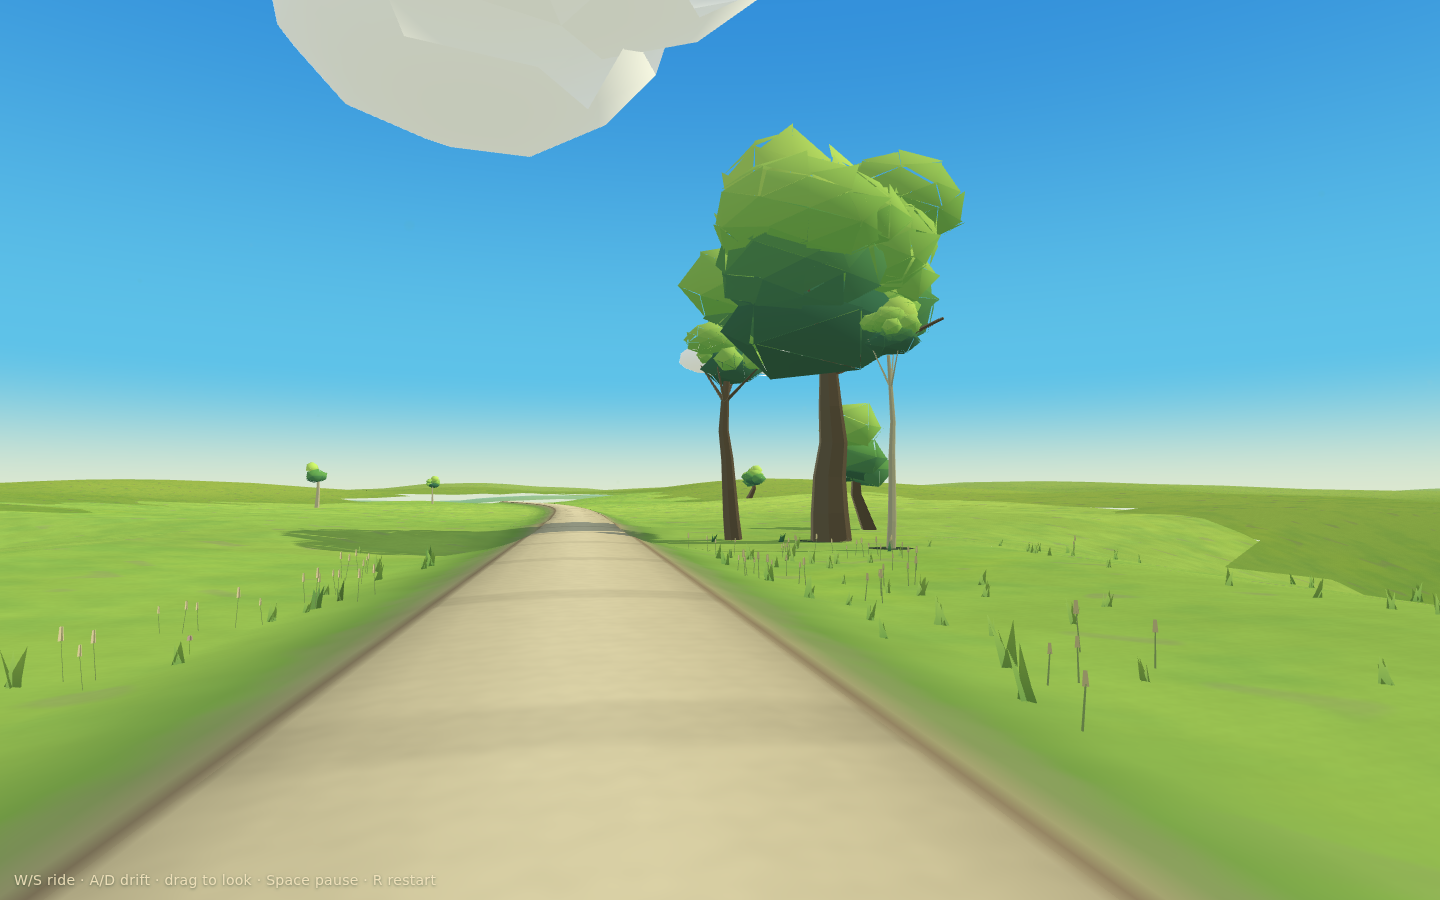
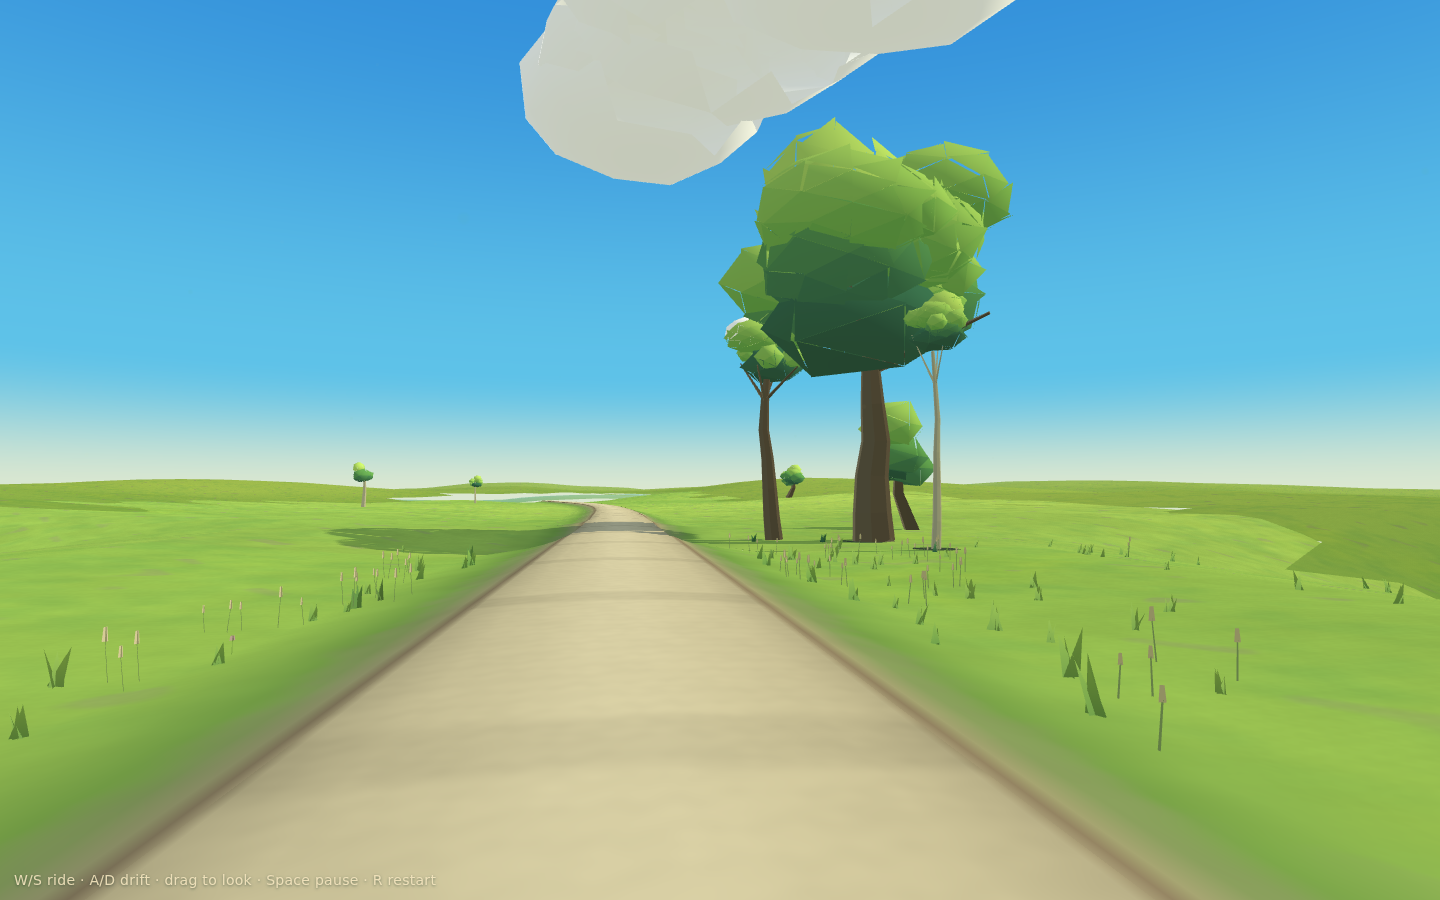
Summerglass Island 01: final pass — honest budget, raised Sisters
The budget is now a deterministic bound, not a sample: budgetSweep() poses
the rider's camera analytically at fixed stations every 24 m along the whole
route, settles residency synchronously at each, and reports the maximum.
Repeat-identical by construction. Swept maxima: 109,732 triangles / 26 calls
at standard, 114,408 / 27 at high, against 120,000 / 45. The boundary-row
tier decision was re-made against this number and against three alternate
seeds: articulating the row reads 118.3k on the default seed but 120.5k on
COMBE-777 at high — over the ceiling on reachable seeds — so it stays tier 1,
on evidence rather than on the earlier bad sample.

The Sisters finally earn the skyline, and the diagnosis was humbling: their
knoll was a gaussian ADDED to unconstrained relief noise, and on this seed
the noise ran ten metres below the road — the summit stood eight metres
under the lane, and three forty-metre elders vanished into their own
hillside. The knoll now DECLARES its summit against the road's own height,
the combe rises on its flank instead of carving through it, the group is
laid across two forward sight-lines a rider actually holds (the
water-aperture approach and the early climb), the second pond-wall mass is
moved out of their bearing, and the ride's sight test was what had hidden
all of this — it probed clear air 24 m above a sunken knoll. The reveal is
now a single composed moment: water below, three elders above.
[…]

diff --git a/island-01.html b/island-01.html
@@ -457,13 +457,15 @@ H.terrain.feed(POND.g,POND.cx,POND.cz,POND.rx,POND.rz,POND.y);
 const KNOLL=(()=>{
   const g=POND.g+FORM.r(140,190);
   const fr=getFrame(LFRAME,g);
-  const off=(FORM.r(118,148))*S_LAND;
+  const off=(FORM.r(150,172))*S_LAND;
   return { x:fr.x+fr.lx*off, z:fr.z+fr.lz*off, g,
-           r:FORM.r(85,110), h:FORM.r(17,23) };
+           r:FORM.r(85,110), h:FORM.r(20,26) };
 })();
 const COMBE=(()=>{
   const pts=[];
-  pts.push([KNOLL.x,KNOLL.z]);
+  // the spring rises on the knoll's flank, forty metres downslope — a combe
+  // that begins at the summit would carve the knoll out from under its own trees
+  pts.push([lerp(KNOLL.x,POND.cx,0.26),lerp(KNOLL.z,POND.cz,0.26)]);
   pts.push([lerp(KNOLL.x,POND.cx,0.5)+FORM.r(-14,14),lerp(KNOLL.z,POND.cz,0.5)+FORM.r(-14,14)]);
   pts.push([POND.cx,POND.cz]);
   // downstream: away from the road, off the island's shoulder
@@ -540,8 +542,9 @@ function reliefL(x,z,d){
   r+=(fbmL(x/188+31.1,z/188+17.4)-0.5)*46;
   r+=(fbmL(x/62+7.7,z/62+41.3)-0.5)*12;
   r*=g;
-  { const dx=x-KNOLL.x, dz=z-KNOLL.z;
-    r+=KNOLL.h*Math.exp(-(dx*dx+dz*dz)/(KNOLL.r*KNOLL.r))*smooth(30,110,d); }
+  // (the knoll is imposed in groundL, not added here: a bump summed onto
+  // unconstrained noise stood eight metres BELOW the road on this seed, and a
+  // sunken knoll is how three forty-metre elders vanish from their own skyline)
   for(const b of THRESH_BANK){
     const dx=x-b.x, dz=z-b.z;
     r+=b.h*Math.exp(-(dx*dx+dz*dz)/(b.r*b.r))*smooth(EXCL+4,EXCL+16,d);
@@ -616,6 +619,12 @@ function groundL(x,z){
         y=lerp(y,Math.max(y,rim),smooth(RH+9,RH+26,ri.d)*(1-smooth(2.3,2.7,pr)));
       }
     } }
+  // the Sisters' knoll: its summit is DECLARED against the road's own height,
+  // so the crowns break the skyline from the lane at every station. The noise
+  // around it stays low, which gives the rise its prominence for free.
+  { const kdx=x-KNOLL.x, kdz=z-KNOLL.z, kd2=kdx*kdx+kdz*kdz;
+    const kw=Math.exp(-kd2/(KNOLL.r*KNOLL.r));
+    if(kw>0.02) y=lerp(y,ri.y+KNOLL.h,smooth(0.06,0.75,kw)); }
   y=shelfY(x,z,y);
   // within the shoulder the ground is never permitted above the lane's edge,
   // and the metre beside the stone always carries it
@@ -735,11 +744,22 @@ const BOUNDARY={ s0:movStart('headland')+FORM.r(10,50), s1:movEnd('headland')+FO
   }
 }
 
-// ---- wind-sisters: three elders on the knoll at the head of the combe ----
+// ---- wind-sisters: three elders on the knoll at the head of the combe.
+// A landmark has to be a shape you can name, so the line is laid ACROSS the
+// rider's own sight-lines — one designed viewpoint in the rows, one on the
+// headland — so the group reads side-on as one silhouette from both, never
+// end-on as three trunks. Tall, taller, short: a relationship, not a row.
 const SISTERS=(()=>{
+  // both sight-lines are FORWARD views a rider actually holds: one from the
+  // water-aperture approach (the composite: pond below, elders above), one
+  // from the early climb where the knoll stands off the shoulder
+  const vA=getFrame(LFRAME,clamp(POND.apertureG-45,0,LFRAME.len-1));
+  const vB=getFrame(LFRAME,clamp(POND.g+185,0,LFRAME.len-1));
+  const a1=Math.atan2(vA.x-KNOLL.x,vA.z-KNOLL.z), a2=Math.atan2(vB.x-KNOLL.x,vB.z-KNOLL.z);
+  const vm=Math.atan2(Math.sin(a1)+Math.sin(a2),Math.cos(a1)+Math.cos(a2));
+  const across=vm+Math.PI*0.5;
   const towardPond=Math.atan2(POND.cx-KNOLL.x,POND.cz-KNOLL.z);
-  const across=towardPond+Math.PI*0.5;
-  const SCL=[2.15,2.85,1.65], OFF=[-26,2,23];
+  const SCL=[2.7,3.4,2.0], OFF=[-33,1,29];
   const out=[];
   for(let i=0;i<3;i++){
     const st=subStream('sister',i);
@@ -809,7 +829,7 @@ const GROVES=[];
     const beyond=Math.abs((POND.cx-fr.x)*fr.lx+(POND.cz-fr.z)*fr.lz)+POND.rx+st.r(10,16);
     GROVES.push({ id:GROVES.length, s:POND.g+st.r(-24,10), side:S_LAND, off:beyond, rx:st.r(34,44), rz:st.r(38,52),
       rot:st.r(0,TAU), role:'wall', dens:1.0, mix:['beech','oak','beech','leaning'], enc:0.85, hero:false, pondWall:true });
-    GROVES.push({ id:GROVES.length, s:POND.g+st.r(46,90), side:S_LAND, off:beyond*st.r(0.8,0.95), rx:st.r(22,30), rz:st.r(26,36),
+    GROVES.push({ id:GROVES.length, s:POND.g+st.r(78,120), side:S_LAND, off:beyond*st.r(1.0,1.15), rx:st.r(22,30), rz:st.r(26,36),
       rot:st.r(0,TAU), role:'wall', dens:1.0, mix:['beech','oak','leaning'], enc:0.8, hero:false, pondWall:true });
   }
   for(const gr of GROVES) H.eco.feed(gr.s,gr.off,gr.side,gr.role);
@@ -841,7 +861,7 @@ const GROVES=[];
       if(ri.s>PANELS[0].s0-20&&ri.s<PANELS[0].s1+20&&ri.u*(-S_LAND)>10&&ri.u*(-S_LAND)<PANELS[0].u1+14) continue;
       // the mown panel was cut this season: nothing grows tall in it
       { const pa=panelAt(x,z,ri); if(pa&&pa.P.mown&&pa.w>0.3) continue; }
-      if(Math.hypot(x-KNOLL.x,z-KNOLL.z)<52) continue;
+      if(Math.hypot(x-KNOLL.x,z-KNOLL.z)<84) continue;   // the Sisters share their skyline with nobody
       if(inSight(x,z,ri.s,ri.d,Math.sign(ri.u)||1)) continue;
       if(treeNear(x,z,2.0*scl+st.r(0.4,2.4))) continue;
       treeAdd({ x,z,fam,scl,lean:st.r(-1,1),leanDir:st.r(0,TAU),
@@ -2192,7 +2212,11 @@ for(let k=0;k<XFORMS.length;k++){
     if(t.formation==='dappled-gate'){ tier=2; FORMATION_STAT.gates++; }
     else if(t.formation==='wind-sisters'){ tier=1; FORMATION_STAT.sisters++; }
     else if(t.fam==='orchard'){ tier=(t.d<30)?1:0; round=(t.d<30); FORMATION_STAT.orchard++; }
-    else { tier=1; FORMATION_STAT.boundary++; }   // ~20 m out: articulated crowns, welded trunks
+    else { tier=1; FORMATION_STAT.boundary++; }
+    // Boundary row stays tier 1, re-decided against the deterministic swept
+    // maximum: articulating it reads 118.3k on the default seed but 120.5k on
+    // COMBE-777 at high tier — over the ceiling on reachable seeds. At its
+    // honest twenty metres, welded tier-1 trunks carry the line.
     const overhang=(t.d<EXCL+10)?(t.roadY+9.0):undefined;
     buildTree(tier===2?nearB:massB,t,tier,overhang,round);
     FORMATION_STAT.built++;
@@ -2337,7 +2361,8 @@ function realizeBand(copy,bi){
         if(r2<0.62){ addFern(uB,x,y,z,st,mixc(PAL.woodDeep,PAL.leafShade,0.4),mixc(PAL.leafShade,PAL.meadow,0.35),st.r(0.46,0.92)); local.ferns++; }
         else if(r2<0.86){ addTuft(uB,x,y,z,st,gc.clone().lerp(col(PAL.leafShade),0.34),gc.clone().lerp(col(PAL.meadow),0.34),st.r(0.28,0.58),st.i(4,6)); local.understory++; }
         else { addBlob(uB,x,y+0.18,z,st,st.r(0.42,0.78),st.r(0.30,0.52),st.r(0.42,0.78),mixc(PAL.meadow,PAL.leafShade,0.30),mixc(PAL.leafShade,PAL.woodDeep,0.26),0.18); local.shrubs++; }
-      } else if(enc<0.30&&slope<0.30&&r2<(ri.d>10?0.16:0.30)){
+      } else if(enc<0.30&&slope<0.30&&moist<0.28&&r2<(ri.d>10?0.16:0.30)){
+        // seedheads are a dry-field form: none stand in the combe's damp ground
         // seedheads in twos and threes: a lone stalk in open field is a post
         const nSt=st.i(2,3);
         for(let q=0;q<nSt;q++)
@@ -2506,8 +2531,8 @@ const cloudMeshes=[];
       }
     }
   }
-  for(const bandCfg of [{n:6,rr:[700,1500],h:[260,330],span:[300,470],speed:0.46},
-                        {n:6,rr:[1500,3000],h:[340,470],span:[210,340],speed:0.24}]){
+  for(const bandCfg of [{n:6,rr:[950,1700],h:[330,400],span:[300,470],speed:0.46},
+                        {n:6,rr:[1700,3100],h:[430,530],span:[210,340],speed:0.24}]){
     const B=Buf(); B.sway=0;
     for(let i=0;i<bandCfg.n;i++){
       const st=subStream('cloud',bandCfg.n,i);
@@ -3419,6 +3444,37 @@ window.__SUMMERGLASS_TEST__={
   budgetIsland(){ camera.updateMatrixWorld(); refreshFrustum(camera);
     const isl=islandLocalOf(rider.g);
     return countIsland(isl?isl.copy:0); },
+  // The honest budget number: a deterministic sweep, not a sample. Fixed
+  // stations every `step` metres along the whole route, the rider's camera
+  // posed analytically at each (same eye, lat, pitch law as the ride), full
+  // residency settled synchronously before each count, maximum reported.
+  // A visible-triangle count is camera-dependent; only a stated sweep like
+  // this one is comparable against a fixed ceiling.
+  budgetSweep(step){
+    const st=step||24;
+    const out={maxTris:0, maxCalls:0, atG:0, stations:0, stepM:st, from:40, to:Math.floor(ROUTE_LEN-20)};
+    const saveG=rider.g;
+    for(let g=40; g<ROUTE_LEN-20; g+=st){
+      let guard=0;
+      while(updateResidency(g,4)>0&&guard++<60){}
+      const fr=frameAtG(g);
+      camera.position.set(fr.x+fr.lx*0.9, fr.y+EYE_H, fr.z+fr.lz*0.9);
+      const la=frameAtG(Math.min(g+30,ROUTE_LEN-1));
+      const pitch=clamp(Math.atan2(la.y-fr.y,30)*0.42+PITCH_BIAS,-0.55,0.5);
+      const yaw=Math.atan2(-fr.tx,-fr.tz);
+      camera.quaternion.setFromEuler(new THREE.Euler(pitch,yaw,0,'YXZ'));
+      camera.updateMatrixWorld();
+      refreshFrustum(camera);
+      const isl=islandLocalOf(g);
+      const c=countIsland(isl?isl.copy:0);
+      out.stations++;
+      if(c.tris>out.maxTris){ out.maxTris=c.tris; out.atG=Math.round(g); }
+      out.maxCalls=Math.max(out.maxCalls,c.calls);
+    }
+    let guard=0;
+    while(updateResidency(saveG,4)>0&&guard++<60){}
+    return out;
+  },
   groundingProbe(){
     let worst=null, floating=0, maxAbove=-1e9, sampled=0;
     for(const t of TREES){
@@ -3434,6 +3490,17 @@ window.__SUMMERGLASS_TEST__={
       seated:{lowered:GROUND_STAT.lowered,raised:GROUND_STAT.raised,unseatable:GROUND_STAT.culled}};
   },
   markDebug(){ markProvenance('debug'); return RUN.provenance; },
+  knollProbe(){
+    const sis=TREES.filter(t=>t.formation==='wind-sisters');
+    return {
+      knoll:{x:+KNOLL.x.toFixed(1),z:+KNOLL.z.toFixed(1),g:Math.round(KNOLL.g),r:+KNOLL.r.toFixed(1),h:+KNOLL.h.toFixed(1)},
+      knollD:+routeInfoL(KNOLL.x,KNOLL.z).d.toFixed(1),
+      groundAtKnoll:+groundL(KNOLL.x,KNOLL.z).toFixed(2),
+      groundNearby:+groundL(KNOLL.x+60,KNOLL.z+60).toFixed(2),
+      roadYatG:+getFrame(LFRAME,clamp(KNOLL.g,0,LFRAME.len-1)).y.toFixed(2),
+      sisters:sis.map(t=>({x:+t.x.toFixed(1),z:+t.z.toFixed(1),y:t.y===undefined?null:+t.y.toFixed(2),scl:t.scl,uns:!!t.unseatable,d:+t.d.toFixed(1)})),
+    };
+  },
   // where the pond actually lands on screen, and the ground profile out to it
   pondProbe(){
     camera.updateMatrixWorld();
